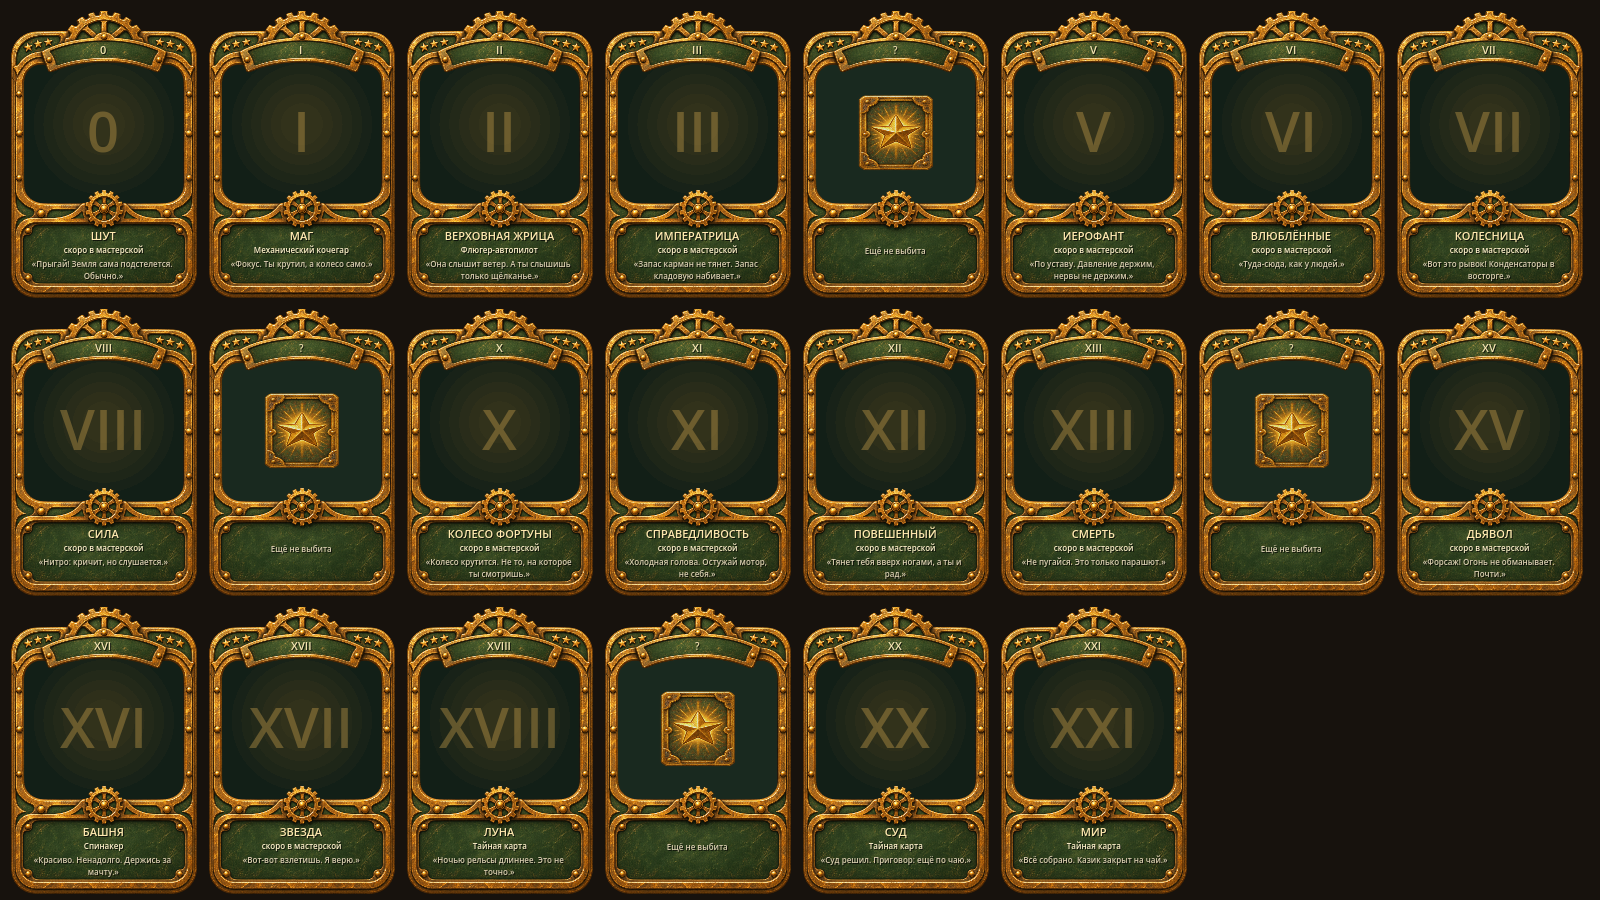
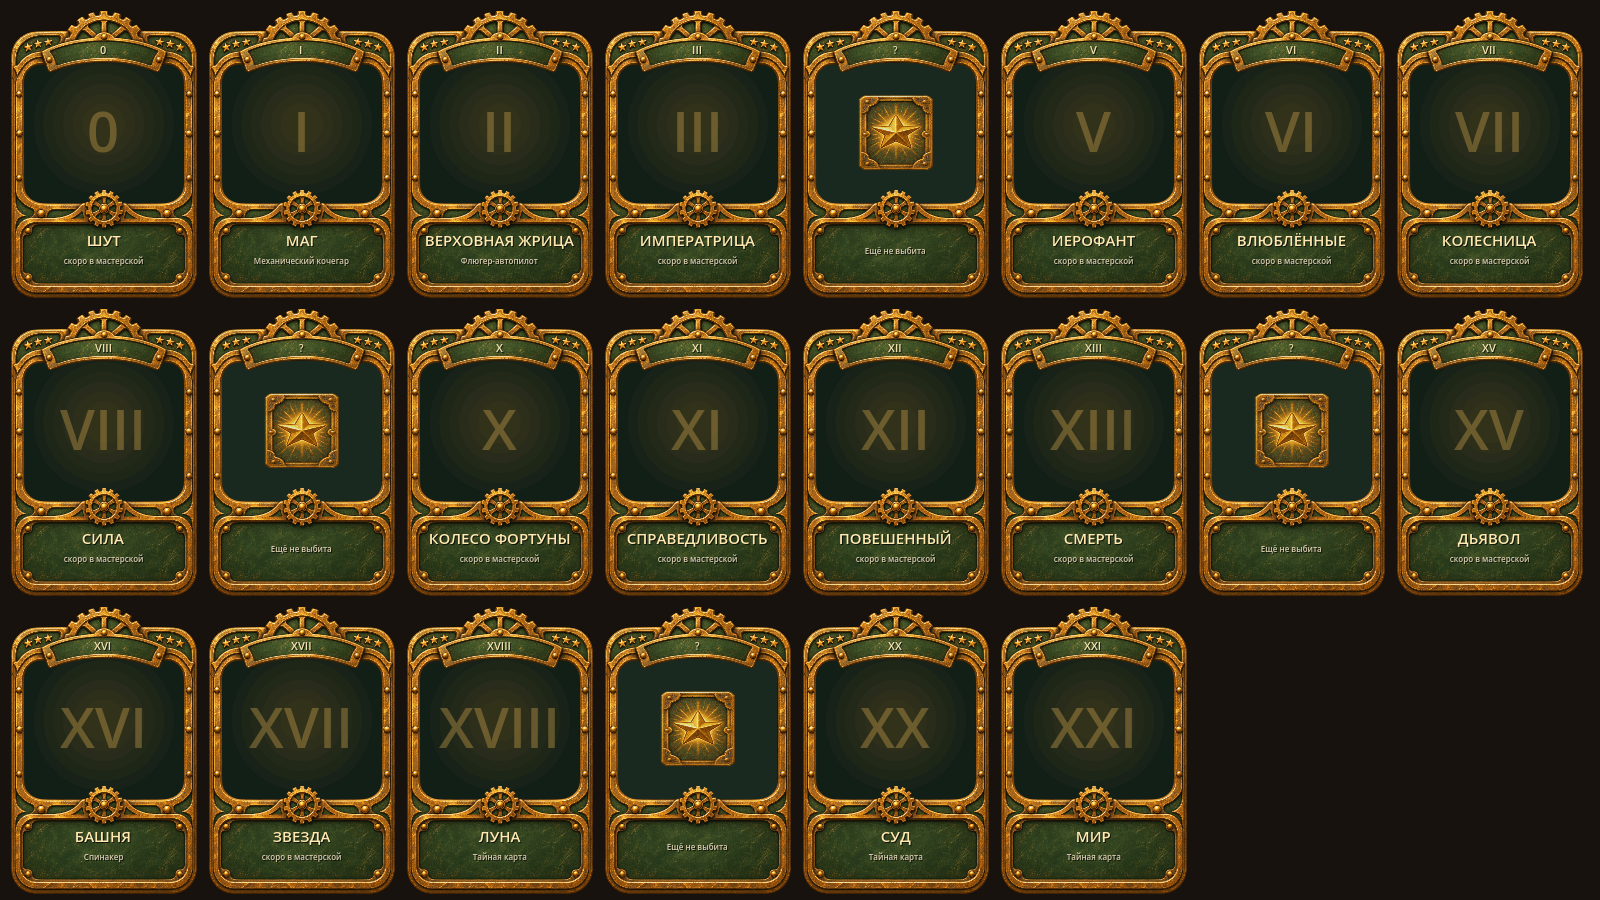
Карточка как настоящая карта Таро: крупное название, гаджет мелко, реплика в подпись; решение о дизайне в KAZIK_CARDS_RU

diff --git a/docs/KAZIK_CARDS_RU.md b/docs/KAZIK_CARDS_RU.md
@@ -105,3 +105,7 @@
 - Все 18 различны и покрывают все гаджеты, у каждого гаджета ровно одна карточка.
 - Тайные карты выдаются по своим условиям и не выпадают из лудки.
 - Альбом показывает 22 места.
+
+## 8. Дизайн карточки (решение владельца 04.11.2026)
+
+**Буквально карты Таро, но чуть изменённые.** Что от настоящего Таро: вертикальная карта, римская цифра в ленте сверху, крупная картина в центре, название аркана внизу крупными буквами, классические сцены и символы (Шут у обрыва, Колесо Фортуны, Башня, Звезда). Что изменено: латунно-зелёная рамка с шестернёй и заклёпками вместо печатной, сцены переодеты в железнодорожные, картины сложены из бумаги (оригами, диорама из слоёв), в каждой картине предмет-намёк на бафф гаджета, под названием мелко имя гаджета. Реплика Михалыча на карте не пишется, она в подписи под карточкой (альбом, окно выпадения). Код: `scripts/card_view.gd`, лист `qa/cards_layout/`, промпты `tools/art_sources/briefs/P10_tarot_cards/`.
